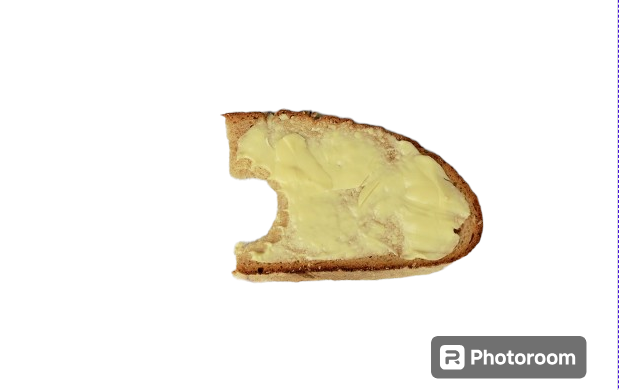
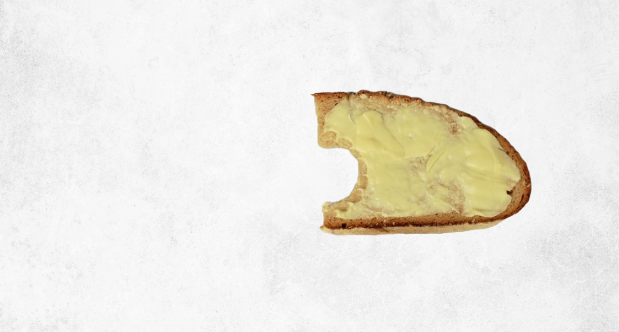
Update product images

diff --git a/product.html b/product.html
@@ -148,7 +148,7 @@
                         <div class="card-content">
 
                         <h1 class="hero-title">
-                            Flavor Collection<br>
+                            Flavours Collection<br>
                             Diary Flavoring
                         </h1>
 
@@ -181,7 +181,7 @@
                     <li>
                     <div class="collection-card has-before hover:shine">
 
-                        <h2 class="h2 card-title">Milk Podwer Collection</h2>
+                        <h2 class="h2 card-title">Milk Powder Collection</h2>
 
                         <p class="card-text">Nature and Healthy<p>
 
@@ -217,7 +217,7 @@
                     <li>
                     <div class="collection-card has-before hover:shine">
 
-                        <h2 class="h2 card-title">Floavor Collection</h2>
+                        <h2 class="h2 card-title">Flavours Collection</h2>
 
                         <p class="card-text">Flavored Seasoning</p>
 
@@ -246,7 +246,7 @@
                 <div class="container">
 
                 <div class="title-wrapper">
-                    <h2 class="h2 section-title">Milk Podwer Collection</h2>
+                    <h2 class="h2 section-title">Milk Powder Collection</h2>
 
                     <a href="#" class="btn-link">
                     <span class="span">Shop All Products</span>
@@ -261,7 +261,7 @@
                         <div class="shop-card">
 
                             <div class="card-banner img-holder" style="--width: 540; --height: 720;">
-                            <img src="/img/product-01.jpg" width="540" height="720" loading="lazy"
+                            <img src="/img/product-01.jpeg" width="540" height="720" loading="lazy"
                                 alt="Facial cleanser" class="img-cover">
 
                             <span class="badge" aria-label="20% off">-20%</span>
@@ -292,7 +292,7 @@
                                 </div>
 
                                 <h3>
-                                    <a href="#" class="card-title">[Westland] <br> Skim Milk Podwer</a>
+                                    <a href="#" class="card-title">[Westland] <br> Skim Milk Powder</a>
                                 </h3>
 
                                 <div class="card-rating">
@@ -316,7 +316,7 @@
                         <div class="shop-card">
 
                             <div class="card-banner img-holder" style="--width: 540; --height: 720;">
-                            <img src="/img/product-03.jpg" width="540" height="720" loading="lazy"
+                            <img src="/img/product-02.jpeg" width="540" height="720" loading="lazy"
                                 alt="Coffee Bean Caffeine Eye Cream" class="img-cover">
 
                             <div class="card-actions">
@@ -367,7 +367,7 @@
                         <div class="shop-card">
 
                             <div class="card-banner img-holder" style="--width: 540; --height: 720;">
-                            <img src="/img/product-04.jpg" width="540" height="720" loading="lazy"
+                            <img src="/img/product-03.jpeg" width="540" height="720" loading="lazy"
                                 alt="Facial cleanser" class="img-cover">
 
                             <div class="card-actions">
@@ -418,7 +418,7 @@
                         <div class="shop-card">
 
                             <div class="card-banner img-holder" style="--width: 540; --height: 720;">
-                            <img src="/img/product-05.jpg" width="540" height="720" loading="lazy"
+                            <img src="/img/product-04.jpg" width="540" height="720" loading="lazy"
                                 alt="Coffee Bean Caffeine Eye Cream" class="img-cover">
 
                             <span class="badge" aria-label="20% off">-20%</span>
@@ -493,7 +493,7 @@
                         <div class="shop-card">
 
                             <div class="card-banner img-holder" style="--width: 540; --height: 720;">
-                            <img src="/img/product-07.jpg" width="540" height="720" loading="lazy"
+                            <img src="/img/product-05.jpeg" width="540" height="720" loading="lazy"
                                 alt="Facial cleanser" class="img-cover">
 
                             <span class="badge" aria-label="20% off">-20%</span>
@@ -846,7 +846,7 @@
 
                 <a href="#" class="btn btn-secondary">Explore More</a>
 
-                <div class="has-bg-image" style="background-image: url('/img/banner-1.jpg')"></div>
+                <div class="has-bg-image" style="background-image: url('/img/banner.jpg')"></div>
 
               </div>
             </li>

diff --git a/index.html b/index.html
@@ -190,11 +190,10 @@
                         <div class="col-lg-6 wow fadeIn" data-wow-delay="0.3s">
                             <div class="row g-4 align-items-center">
                                 <div class="col-sm-4">
-                                    <img class="img-fluid rounded" src="img/banner-1.jpg" alt="">
+                                    <img class="img-fluid rounded" src="img/collection-1.jpg" alt="">
                                 </div>
                                 <div class="col-sm-8">
                                     <h2 class="text-white mb-3">We Sell Best Dairy Products</h2>
-                                    <p class="text-white mb-4">Clita erat ipsum et lorem et sit, sed stet lorem sit clita duo justo magna dolore erat amet</p>
                                     <a class="btn btn-secondary rounded-pill py-2 px-4" href="">Read More</a>
                                 </div>
                             </div>
@@ -202,11 +201,10 @@
                         <div class="col-lg-6 wow fadeIn" data-wow-delay="0.5s">
                             <div class="row g-4 align-items-center">
                                 <div class="col-sm-4">
-                                    <img class="img-fluid rounded" src="img/banner-2.jpg" alt="">
+                                    <img class="img-fluid rounded" src="img/collection-2.jpg" alt="">
                                 </div>
                                 <div class="col-sm-8">
                                     <h2 class="text-white mb-3">We Deliver Fresh Mild Worldwide</h2>
-                                    <p class="text-white mb-4">Clita erat ipsum et lorem et sit, sed stet lorem sit clita duo justo magna dolore erat amet</p>
                                     <a class="btn btn-secondary rounded-pill py-2 px-4" href="">Read More</a>
                                 </div>
                             </div>
